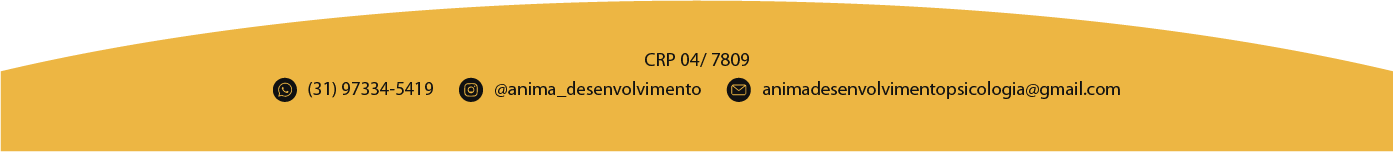
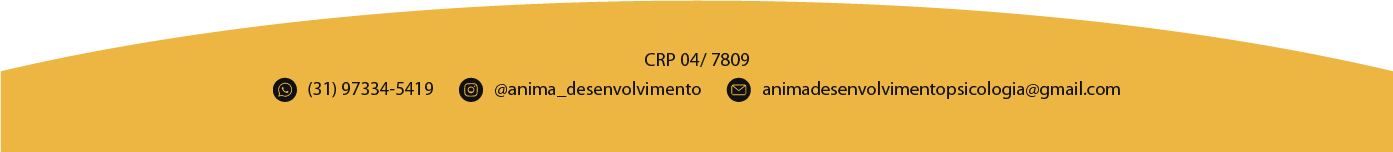
estrutura do site completa

Changed region(s): [[0.0, 0.9737, 1.0, 1.0]]

diff --git a/index.html b/index.html
@@ -1,7 +1,7 @@
 <!DOCTYPE html>
 <html lang="pt-br">
 <head>
-    
+
     <meta charset="UTF-8">
     <meta name="viewport" content="width=device-width, initial-scale=1.0">
     <title>Ânima</title>
@@ -10,47 +10,77 @@
     <link rel="shortcut icon" type="image/x-icon" href="resources/Ícone/ícone title.jpg" />
 </head>
 <body class="container">
-    <nav class="navbar ">
+    <nav class="navbar">
         <div class="container">
             <img src="resources/Logo/Logo.png" alt="" style="width: 200px;">
             <p class="subtitulo">Cuidamos de pessoas e organizações com ciência e sensibilidade.</p>
         </div>
-    </nav>
-    <div class="col-md">
-        <div class="B_v">
+    </nav><br><br>
+    <div class="col-md-8 container">
+        <div class="card-body p-4 border-3 B_v">
             <h2 class="subtitulo">Um espaço em São Gonçalo do Rio Abaixo dedicado ao seu bem-estar!</h2>
-            <button>Agende uma consulta</button>
+            <button class="btn">Agende uma consulta</button>
         </div>
-    </div>
+    </div><br>
+    <div class="col-md-6 text-center container">
+        <div class="card-body p-4 border-3 B_v">
+            <h2>sobre nos</h2>
+            <p>A Ânima é uma empresa localizada em São Gonçalo do Rio Abaixo, dedicada em proporcionar ajuda à saude mental</p>
+            <p class="subtitulo">Missão: Oferecer um cuidado psicológico ético, humano e baseado na ciência, auxiliando no desenvolvimento emocional e na construção de uma vida mais equilibrada e consciente.</p>
+        </div>
+    </div><br>
     <div>
-        <h2>sobre nos</h2>
-        <p>A</p>
-    </div>
-    <div>
-        <h2>nossos serviços</h2>
-        <div class="row">
-            <div>
-
+        <div class="row container">
+            <h2>nossos serviços</h2>
+            <div class="col-md-3">
+                <div class="shadow-sm border-3 cart">
+                    <div class="card-body p-3">
+                        <h5>Psicoterapia individual</h5><br>
+                        <img src="resources/Ícone/4.png" alt="">
+                    </div>
+                </div>
             </div>
-            <div>
-
+            <div class="col-md-3">
+                <div class="shadow-sm border-3 cart">
+                    <div class="card-body col-md p-3">
+                        <h5>Consultorias para organizações</h5>
+                        <img src="resources/Ícone/3.png" alt="">
+                    </div>
+                </div>
             </div>
-            <div>
-
+            <div class="col-md-3">
+                <div class="shadow-sm border-3 cart">
+                    <div class="card-body p-3">
+                        <h5>Avaliação psicológica</h5><br>
+                        <img src="resources/Ícone/2.png" alt="">
+                    </div>
+                </div>
             </div>
-            <div>
-
+            <div class="col-md-3">
+                <div class="shadow-sm border-3 cart">
+                    <div class="card-body p-3">
+                        <h5>Campanhas e palestras educativas</h5>
+                        <img src="resources/Ícone/6.png" alt="">
+                    </div>
+                </div>
             </div>
         </div>
-    </div>
-    <div>
-        <h2>acreditação</h2>
-    </div>
-    <div>
-        <h2>contatos</h2>
-    </div>
-    <footer>
-
+    </div><br>
+    <div class="col-md-8 container">
+        <div class="card-body p-4 border-3 B_v">
+            <h2>acreditação</h2>
+        </div>
+    </div><br>
+    <div class="col-md-8 container">
+        <div class="card-body p-4 border-3 B_v">
+            <h2>contatos</h2>
+        </div>
+    </div><br>
+    <footer class="container">
+        <img src="resources/Ilustrações/3.png" alt="" width="100%">
+        <div class="B_f">
+            <p style="text-align: right;">website criado por: Marco Antonio</p>
+        </div>
     </footer>
 </body>
 </html>

diff --git a/resources/style.css b/resources/style.css
@@ -3,8 +3,14 @@
     src: url(Fontes/Sacramento-Regular.ttf);
 }
 
+@font-face {
+    font-family: montserrat;
+    src: url(Fontes/Montserrat-VariableFont_wght.ttf);
+}
+
 body {
     background-color: #E4D9DC;
+    font-family: montserrat;
 }
 
 nav {
@@ -21,4 +27,25 @@ nav {
     background-color: #FFD4D4;
     padding: 10px;
     border: 10px;
+}
+
+.B_f {
+    background-color: #EDB643;
+    padding: 10px;
+}
+
+.btn {
+    background-color: #bdd8a4;
+}
+
+.btn:hover {
+    background-color: #feda18;
+}
+
+.row {
+    background-color: #FFD4D4;
+}
+
+.cart {
+    background-color: #bdd8a4;
 }
